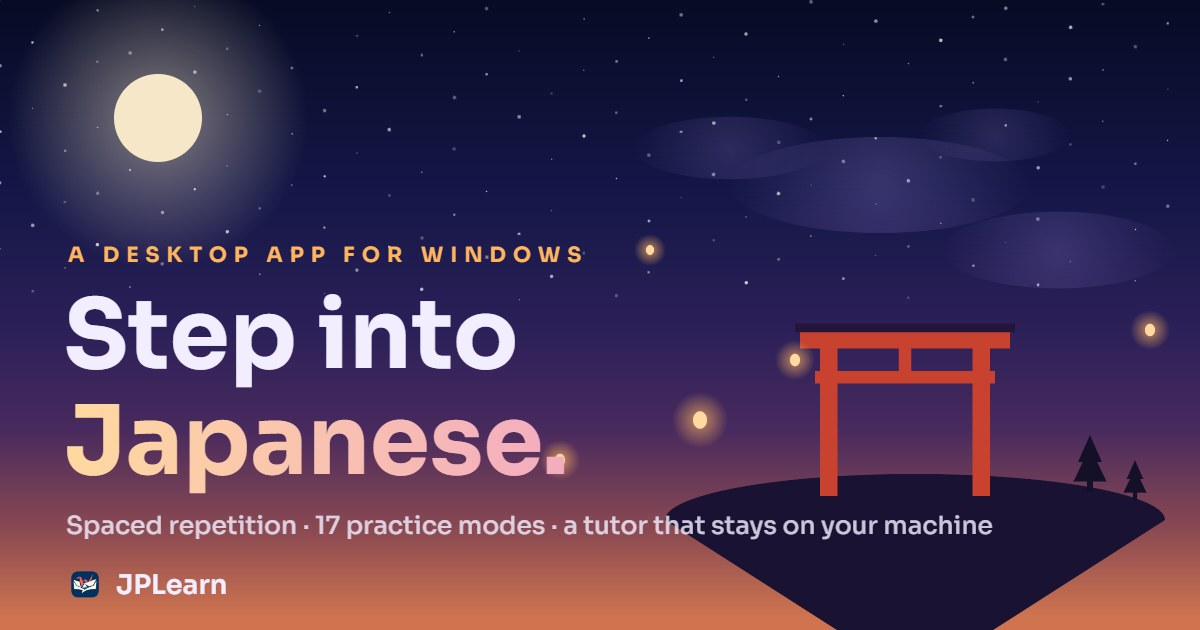
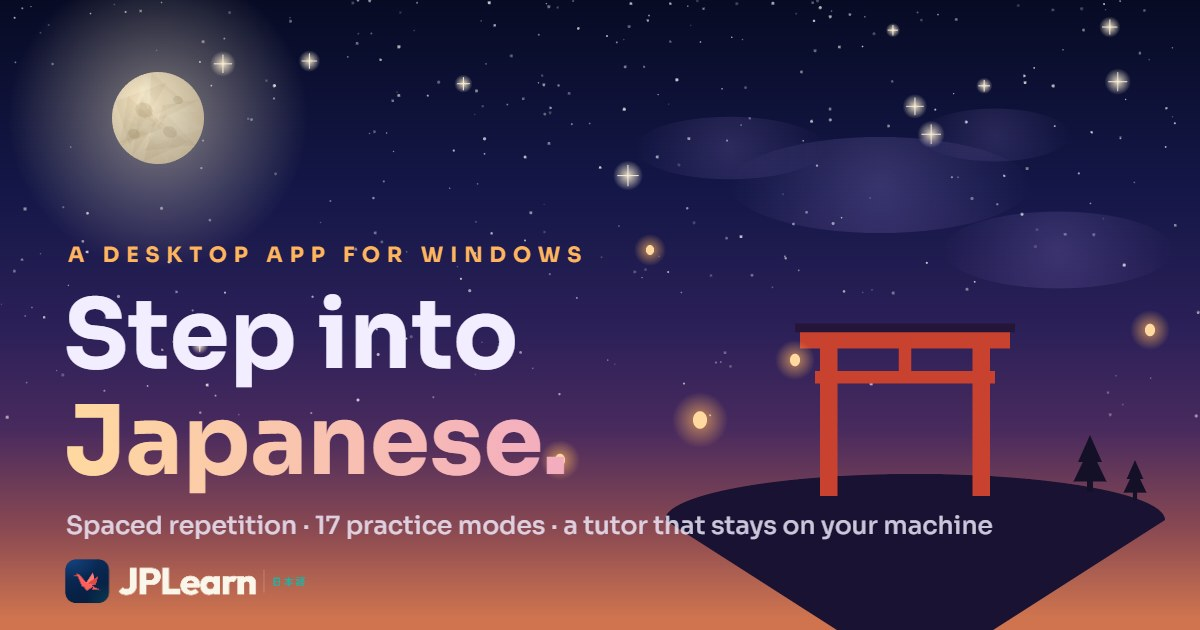
Deepen star twinkle per-star, adopt the brand kit, redraw the OG card
Every main and bright star now twinkles on its own cycle — per-star
phase and speed driven through animated vertex colors — instead of
whole layers breathing in unison; the fine layer and constellation
pulse deeper too. Point sizes rise slightly to keep the sky dense at
mid-twinkle. Frame cost stays under 3 ms.

Brand assets now come from the official kit (jplearn-kickstarter/brand):
the crane app icon replaces the old site icon, and the nav shows the
real horizontal lockup (crane + wordmark + 日本語) instead of icon+text.

og.jpg is redrawn to match the current scene: a cratered, shaded moon,
a far denser star field with cross-glint twinklers, and the brand
lockup in place of the hand-set footer.

diff --git a/app/WorldScene.tsx b/app/WorldScene.tsx
@@ -498,8 +498,9 @@ function makePoints(count: number, spread: Vec3, center: Vec3, color: number, si
 }
 
 /* stars on a spherical shell around the scene, so every view direction is
-   equally dense; slight below-horizon spill keeps low shots starry too */
-function makeStarShell(count: number, radiusMin: number, radiusMax: number, color: number, size: number, texture: THREE.Texture, opacity: number, seed: number) {
+   equally dense; slight below-horizon spill keeps low shots starry too.
+   `twinkle` > 0 gives every star its own brightness cycle via vertex colors */
+function makeStarShell(count: number, radiusMin: number, radiusMax: number, color: number, size: number, texture: THREE.Texture, opacity: number, seed: number, twinkle = 0) {
   const random = mulberry32(seed);
   const positions = new Float32Array(count * 3);
   for (let index = 0; index < count; index += 1) {
@@ -517,7 +518,18 @@ function makeStarShell(count: number, radiusMin: number, radiusMax: number, colo
     color, size, map: texture, transparent: true, opacity,
     depthWrite: false, blending: THREE.AdditiveBlending, sizeAttenuation: true, fog: false,
   });
-  return new THREE.Points(geometry, material);
+  const points = new THREE.Points(geometry, material);
+  if (twinkle > 0) {
+    geometry.setAttribute("color", new THREE.BufferAttribute(new Float32Array(count * 3).fill(1), 3));
+    material.vertexColors = true;
+    const twinkleRandom = mulberry32(seed + 1);
+    points.userData.twinkle = {
+      amp: twinkle,
+      phases: Float32Array.from({ length: count }, () => twinkleRandom() * Math.PI * 2),
+      speeds: Float32Array.from({ length: count }, () => 1.2 + twinkleRandom() * 3.4),
+    };
+  }
+  return points;
 }
 
 function scatterInstances(mesh: THREE.InstancedMesh, count: number, place: (index: number, dummy: THREE.Object3D) => void) {
@@ -877,9 +889,9 @@ function buildWorld(glow: THREE.Texture, soft: THREE.Texture) {
   world.add(mistA, mistB);
 
   /* ambient particles — a three-layer star dome, fog-exempt like the moon */
-  const stars = makeStarShell(2600, 115, 165, 0xffffff, 1.15, soft, 0.9, 11);
+  const stars = makeStarShell(2600, 115, 165, 0xffffff, 1.3, soft, 1, 11, 0.75);
   const starsFine = makeStarShell(2000, 130, 185, 0xcfd8ff, 0.8, soft, 0.6, 23);
-  const starsBright = makeStarShell(130, 110, 150, 0xfff2d8, 2.2, soft, 0.95, 37);
+  const starsBright = makeStarShell(130, 110, 150, 0xfff2d8, 2.4, soft, 0.95, 37, 0.6);
   const fireflies = makePoints(70, [26, 9, 24], [-4, 3.5, -4], 0xffd27e, 0.42, glow, 0.85, 51);
   const petals = makePoints(90, [26, 14, 22], [3, 5, -1], 0xf2a7c3, 0.3, soft, 0.65, 67);
   world.add(stars, starsFine, starsBright, fireflies, petals);
@@ -1004,6 +1016,20 @@ export function WorldScene() {
       });
     };
 
+    const twinkleLayers = [stars, starsBright];
+    const updateTwinkle = (time: number) => {
+      twinkleLayers.forEach((layer) => {
+        const twinkle = layer.userData.twinkle as { amp: number; phases: Float32Array; speeds: Float32Array } | undefined;
+        if (!twinkle) return;
+        const colors = layer.geometry.getAttribute("color") as THREE.BufferAttribute;
+        for (let index = 0; index < twinkle.phases.length; index += 1) {
+          const level = 1 - twinkle.amp * (0.5 + 0.5 * Math.sin(time * twinkle.speeds[index] + twinkle.phases[index]));
+          colors.setXYZ(index, level, level, level);
+        }
+        colors.needsUpdate = true;
+      });
+    };
+
     const orbitAxis = new THREE.Vector3();
     const placeOrbitCard = (card: THREE.Mesh, time: number) => {
       const { radius, tiltX, tiltZ, angle, speed } = card.userData as { radius: number; tiltX: number; tiltZ: number; angle: number; speed: number };
@@ -1035,10 +1061,9 @@ export function WorldScene() {
         world.position.y = Math.sin(time * 0.4) * 0.12;
         fireflies.rotation.y = time * 0.02;
         (fireflies.material as THREE.PointsMaterial).opacity = 0.62 + Math.sin(time * 1.3) * 0.22;
-        (stars.material as THREE.PointsMaterial).opacity = 0.72 + Math.sin(time * 0.6) * 0.1;
-        (starsFine.material as THREE.PointsMaterial).opacity = 0.48 + Math.sin(time * 0.45 + 2) * 0.12;
-        (starsBright.material as THREE.PointsMaterial).opacity = 0.78 + Math.sin(time * 0.9 + 4) * 0.16;
-        (constellationStars.material as THREE.PointsMaterial).opacity = 0.8 + Math.sin(time * 1.1) * 0.18;
+        updateTwinkle(time);
+        (starsFine.material as THREE.PointsMaterial).opacity = 0.45 + Math.sin(time * 0.7 + 2) * 0.22;
+        (constellationStars.material as THREE.PointsMaterial).opacity = 0.72 + Math.sin(time * 1.4) * 0.26;
         pebbles.rotation.y = time * 0.012;
         moon.rotation.y = time * 0.018;
 
@@ -1087,7 +1112,11 @@ export function WorldScene() {
         currentTarget.copy(desiredTarget);
         camera.lookAt(currentTarget);
       },
-      snap: () => {
+      snap: (time = 0) => {
+        if (time > 0) {
+          updateTwinkle(time);
+          orbitCards.forEach((card) => placeOrbitCard(card, time));
+        }
         renderer.render(scene, camera);
         return canvas;
       },

diff --git a/app/world.css b/app/world.css
@@ -48,9 +48,8 @@
   padding: 16px clamp(16px, 4vw, 40px);
   background: linear-gradient(180deg, rgba(7, 11, 36, 0.75), transparent);
 }
-.w-brand { display: flex; align-items: center; gap: 10px; text-decoration: none; }
-.w-brand img { width: 30px; height: 30px; border-radius: 8px; }
-.w-brand span { font-weight: 600; font-size: 17px; letter-spacing: 0.02em; }
+.w-brand { display: flex; align-items: center; text-decoration: none; }
+.w-brand img { height: 34px; width: auto; }
 .w-nav-right { display: flex; align-items: center; gap: 18px; }
 .w-nav-link { font-size: 13px; font-weight: 600; color: var(--muted); text-decoration: none; }
 .w-nav-link:hover { color: var(--text); }

diff --git a/app/page.tsx b/app/page.tsx
@@ -68,8 +68,7 @@ export default function Home() {
 
       <header className="w-nav">
         <Link className="w-brand" href="/">
-          <Image src="/jplearn-icon.png" width={60} height={60} unoptimized alt="" />
-          <span>JPLearn</span>
+          <Image src="/jplearn-lockup-dark.png" width={1000} height={190} unoptimized alt="JPLearn" />
         </Link>
         <div className="w-nav-right">
           <a className="w-nav-link" href={GITHUB_URL} target="_blank" rel="noreferrer">GitHub ↗</a>
